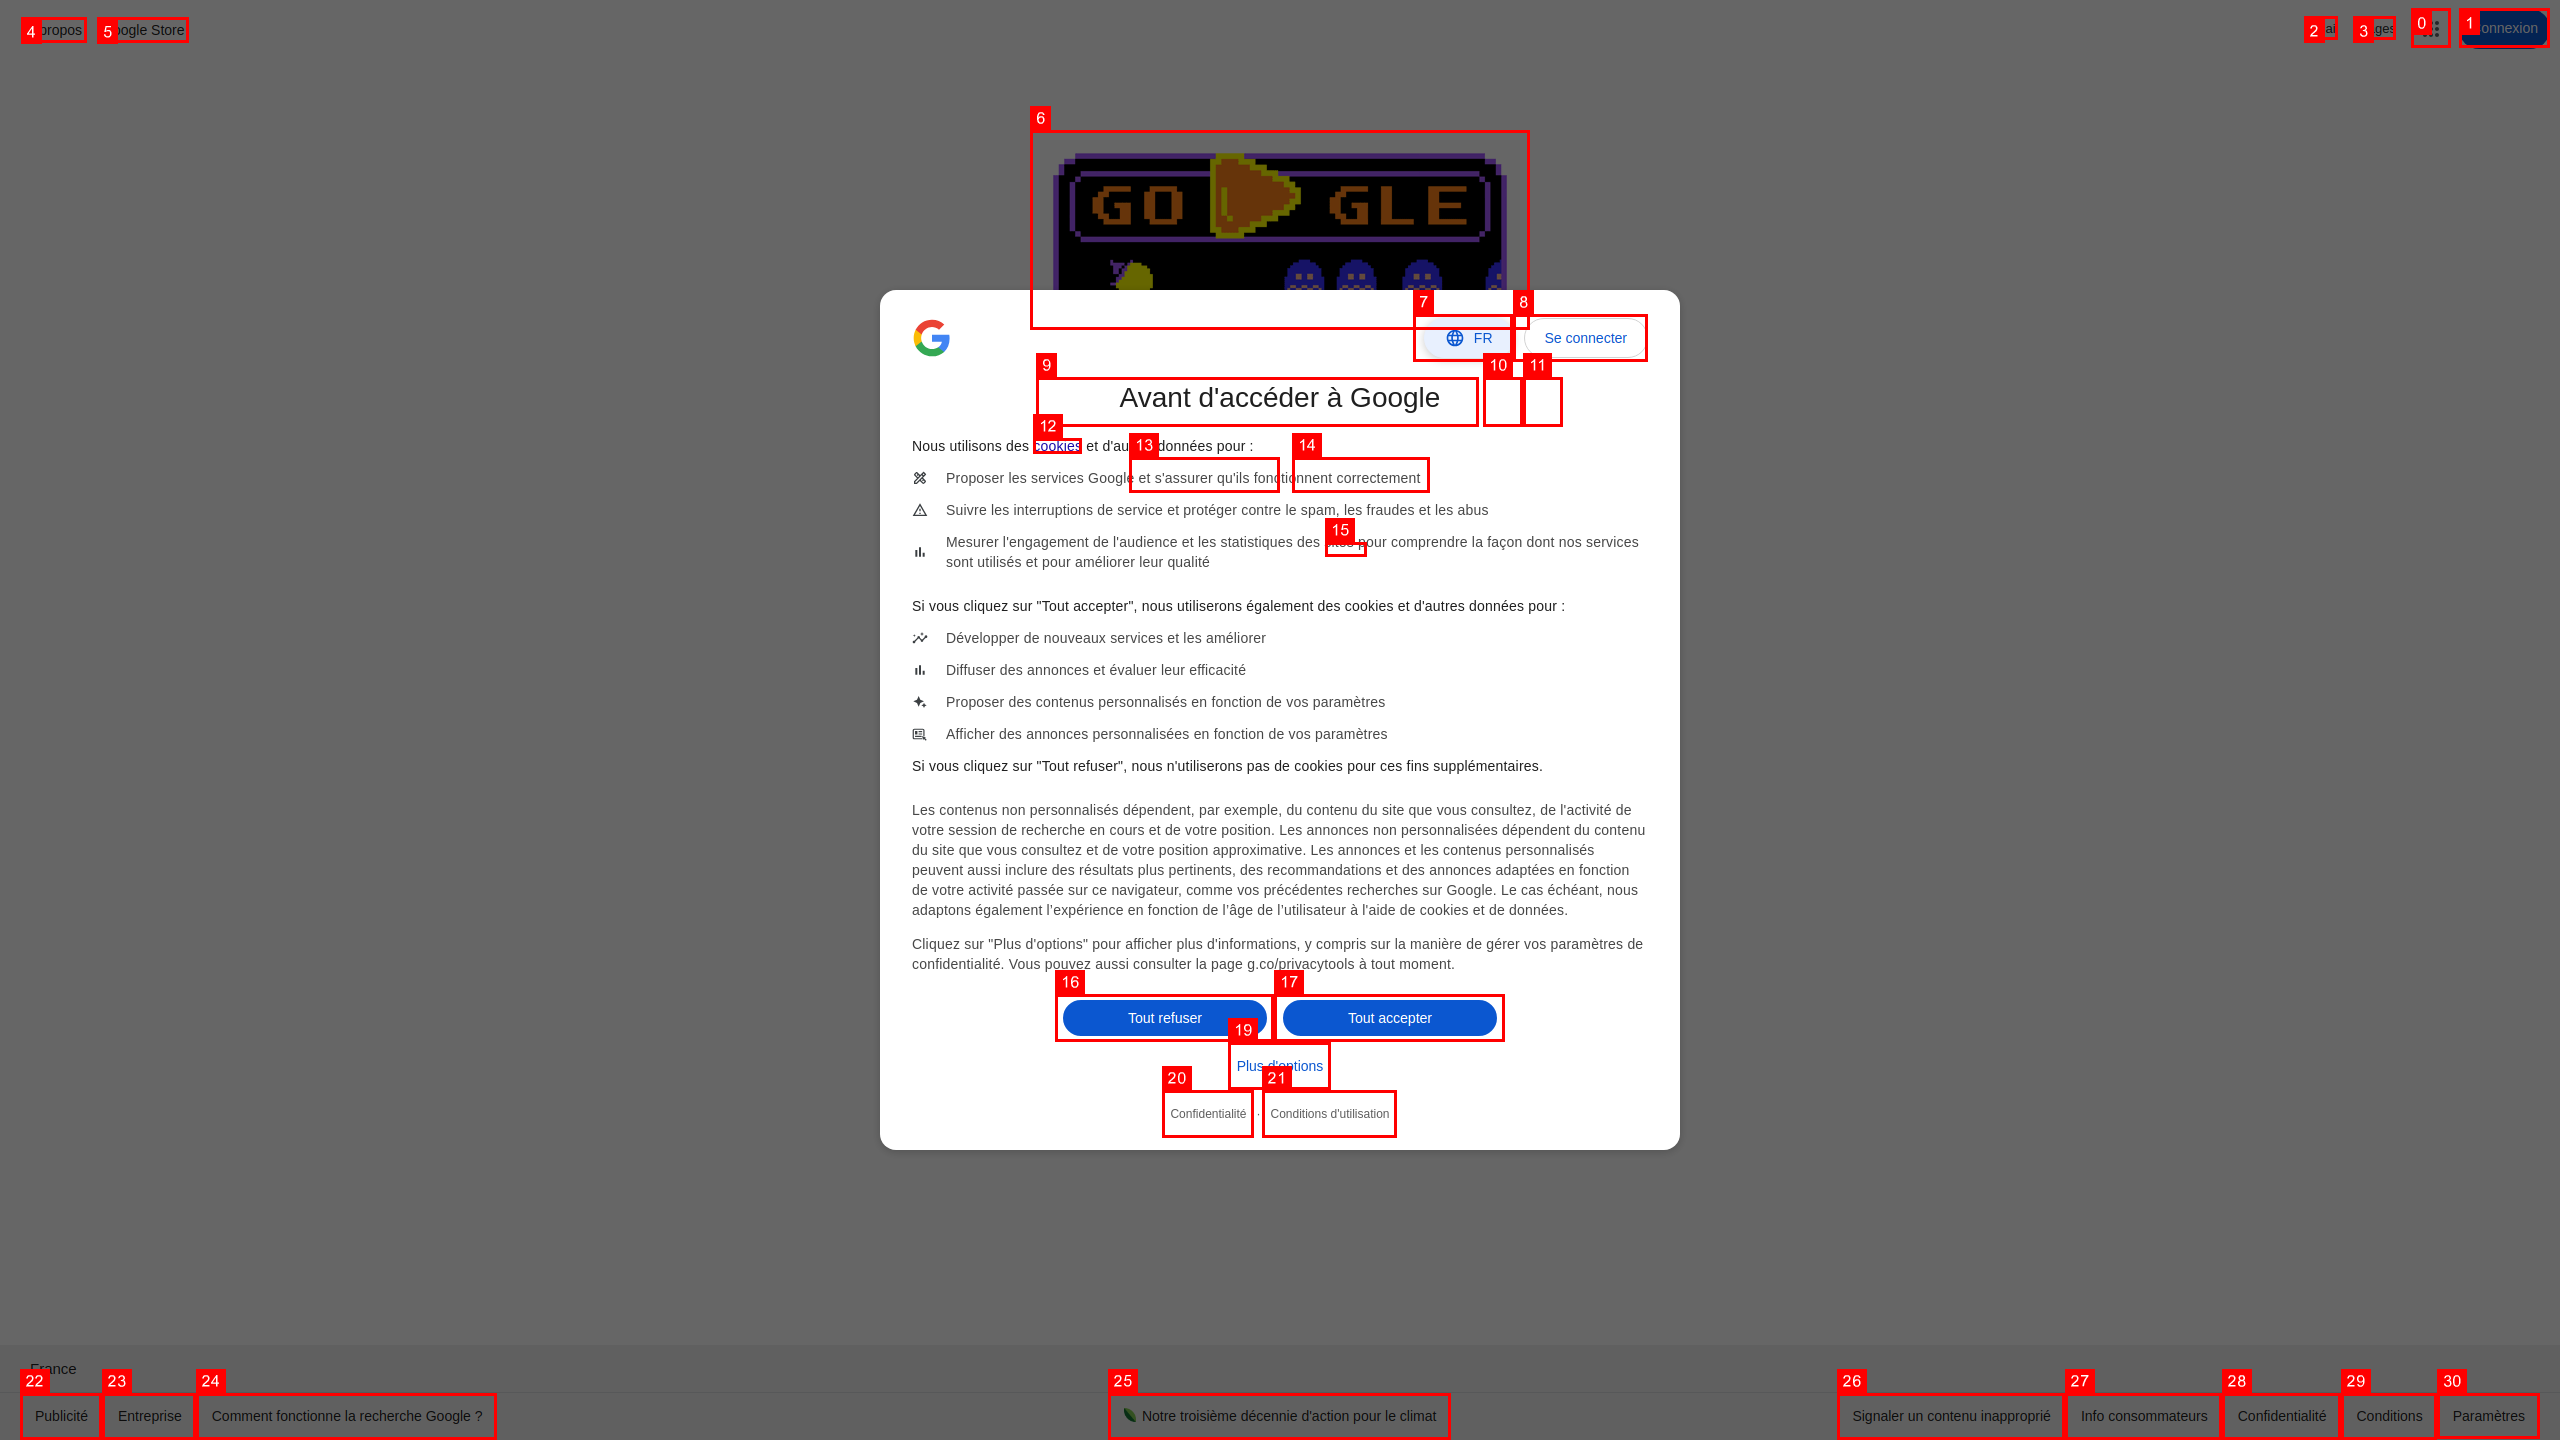
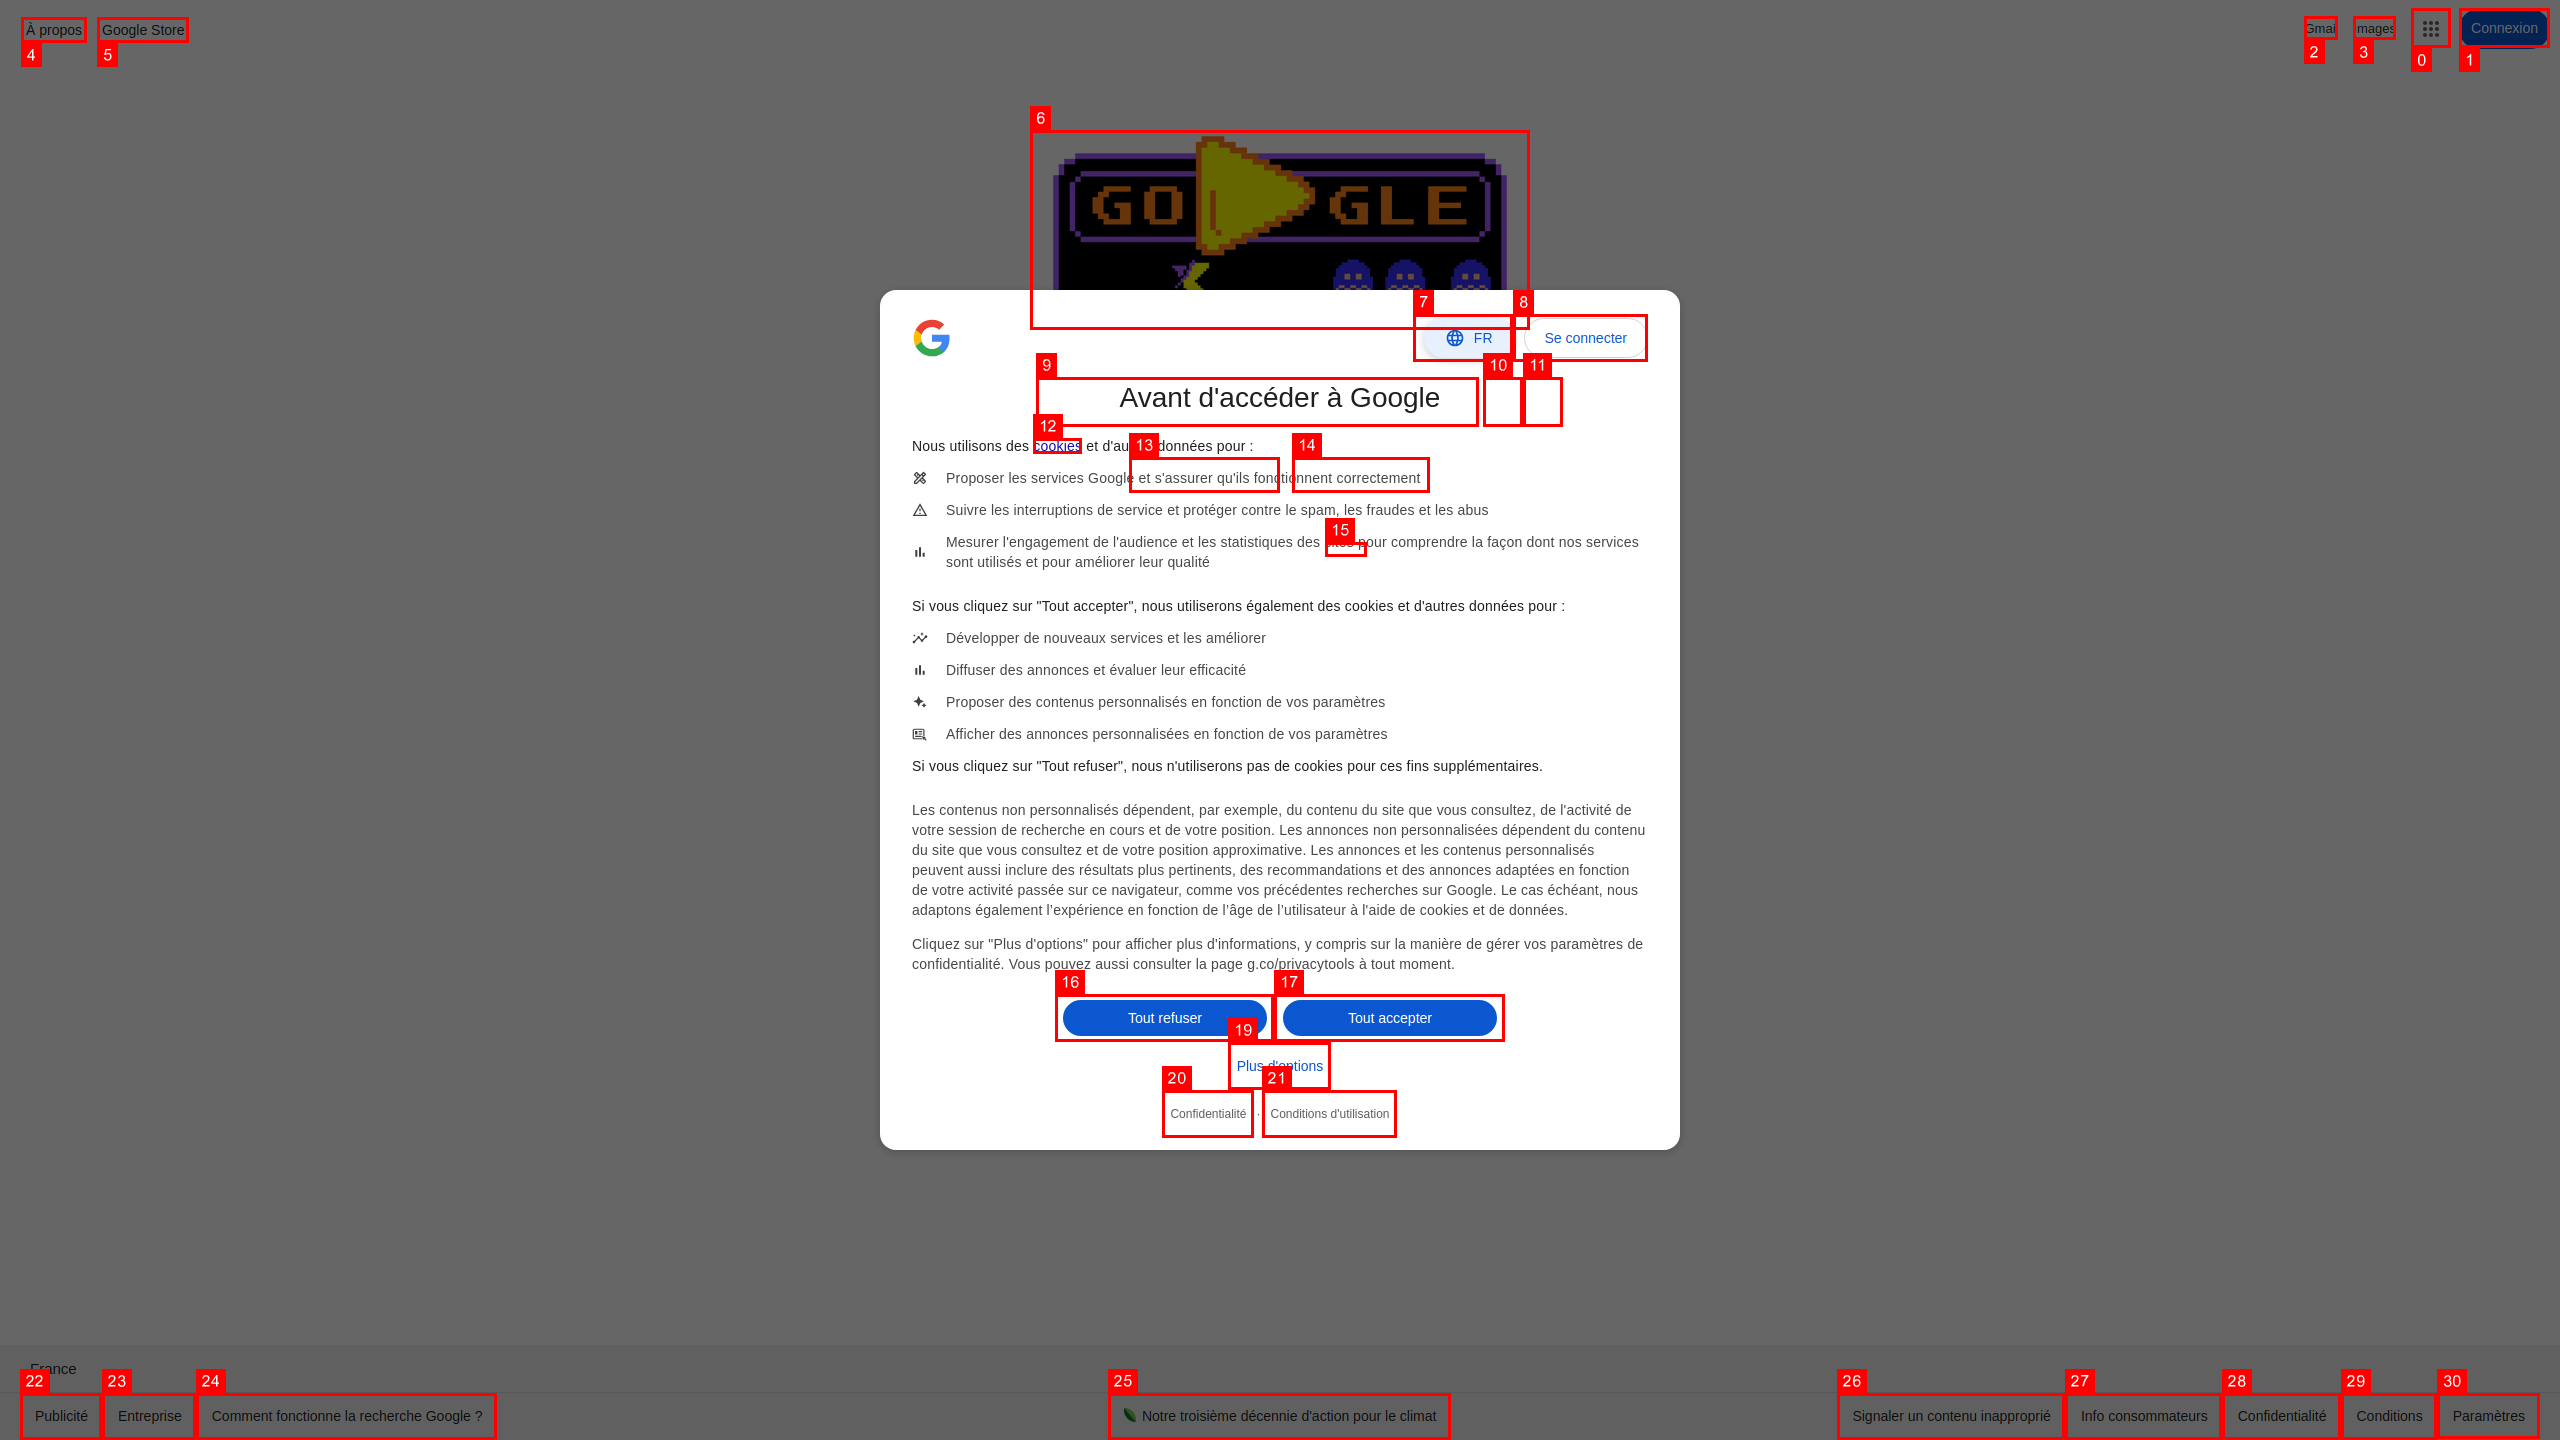
before test close modal

diff --git a/orchestration/techNewsSummary/tools/computerUse/gridOverlay.ts b/orchestration/techNewsSummary/tools/computerUse/gridOverlay.ts
@@ -98,7 +98,7 @@ export const createCoordinatesOverlay = async (
     }
   };
 
-  // Draw a label with connector attached to the frame's top edge
+  // Draw a label placed outside the rectangle: prefer above; otherwise place below.
   const drawLabel = (rect: { x: number; y: number; width: number; height: number; id?: string }) => {
     const text = rect.id ?? "";
     if (!text) return; // nothing to show
@@ -114,15 +114,31 @@ export const createCoordinatesOverlay = async (
     const y0 = Math.floor(rect.y);
 
     // Place label at the top-left of the element, touching the frame (no gap).
-    // Prefer just above the frame; if not enough space, place inside the frame below the top border.
+    // Prefer just above the frame; if not enough space, place BELOW the frame.
+    // In no case should the label be drawn INSIDE the rectangle.
     let labelX = x0;
     labelX = Math.max(0, Math.min(labelX, imgW - boxW));
-    let labelY = y0 - boxH; // flush: label bottom touches frame top
-    if (labelY < 0) {
-      // Not enough room above: place inside the element, just under the top border
-      labelY = y0 + Math.max(0, Math.min(borderWidth, Math.floor(rect.height)));
-      if (labelY + boxH > imgH) {
-        labelY = Math.max(0, imgH - boxH);
+
+    const aboveY = y0 - boxH; // label bottom touches frame top
+    let labelY: number;
+    if (aboveY >= 0) {
+      // Enough room above
+      labelY = aboveY;
+    } else {
+      // Not enough room above: place just below the frame
+      const belowY = Math.ceil(y0 + rect.height); // label top touches frame bottom
+      if (belowY + boxH <= imgH) {
+        // Fits fully below
+        labelY = belowY;
+      } else {
+        // Try clamping to bottom edge if it still stays below the rectangle
+        const clampedBottom = imgH - boxH;
+        if (clampedBottom >= Math.ceil(y0 + rect.height)) {
+          labelY = clampedBottom;
+        } else {
+          // As a last resort, keep it just below the rectangle (may be partially clipped)
+          labelY = belowY;
+        }
       }
     }
 

diff --git a/orchestration/techNewsSummary/tools/computerUse/takeScreenshot.ts b/orchestration/techNewsSummary/tools/computerUse/takeScreenshot.ts
@@ -27,6 +27,7 @@ export const takeScreenshot = tool({
       const page = await browser.newPage();
       await page.goto(url, { waitUntil: "networkidle2", timeout: 30_000 });
       const coordinates = await getInteractiveElementsPosition(page);
+      console.log(JSON.stringify(coordinates, null, 2));
       const base64 = (await page.screenshot({
         type: "png",
         encoding: "base64",
